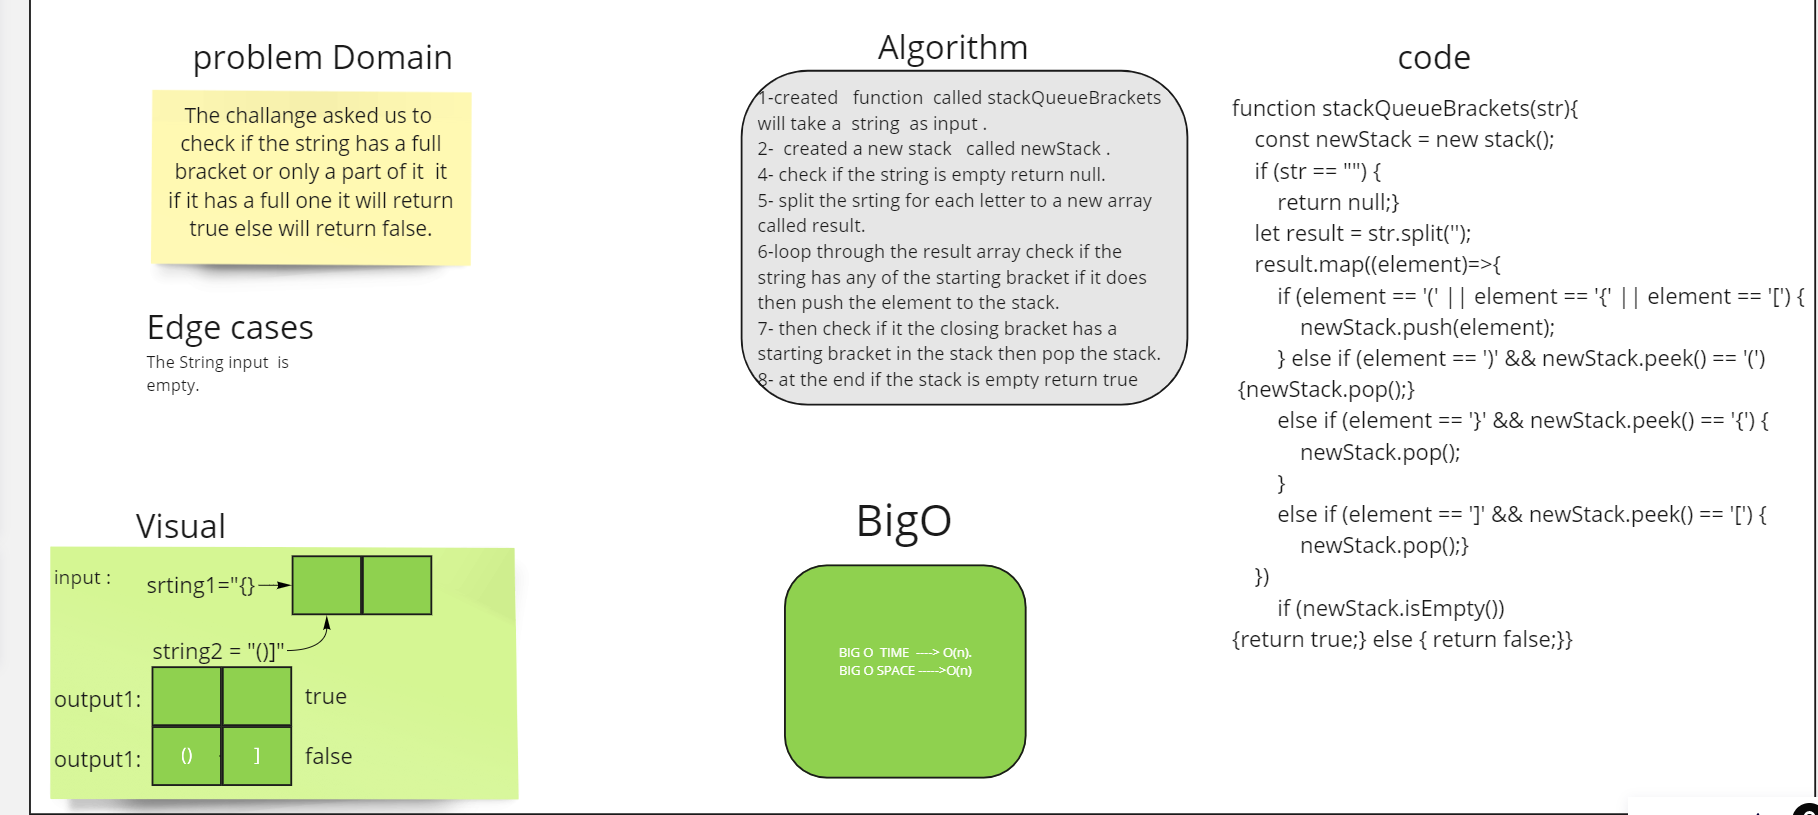
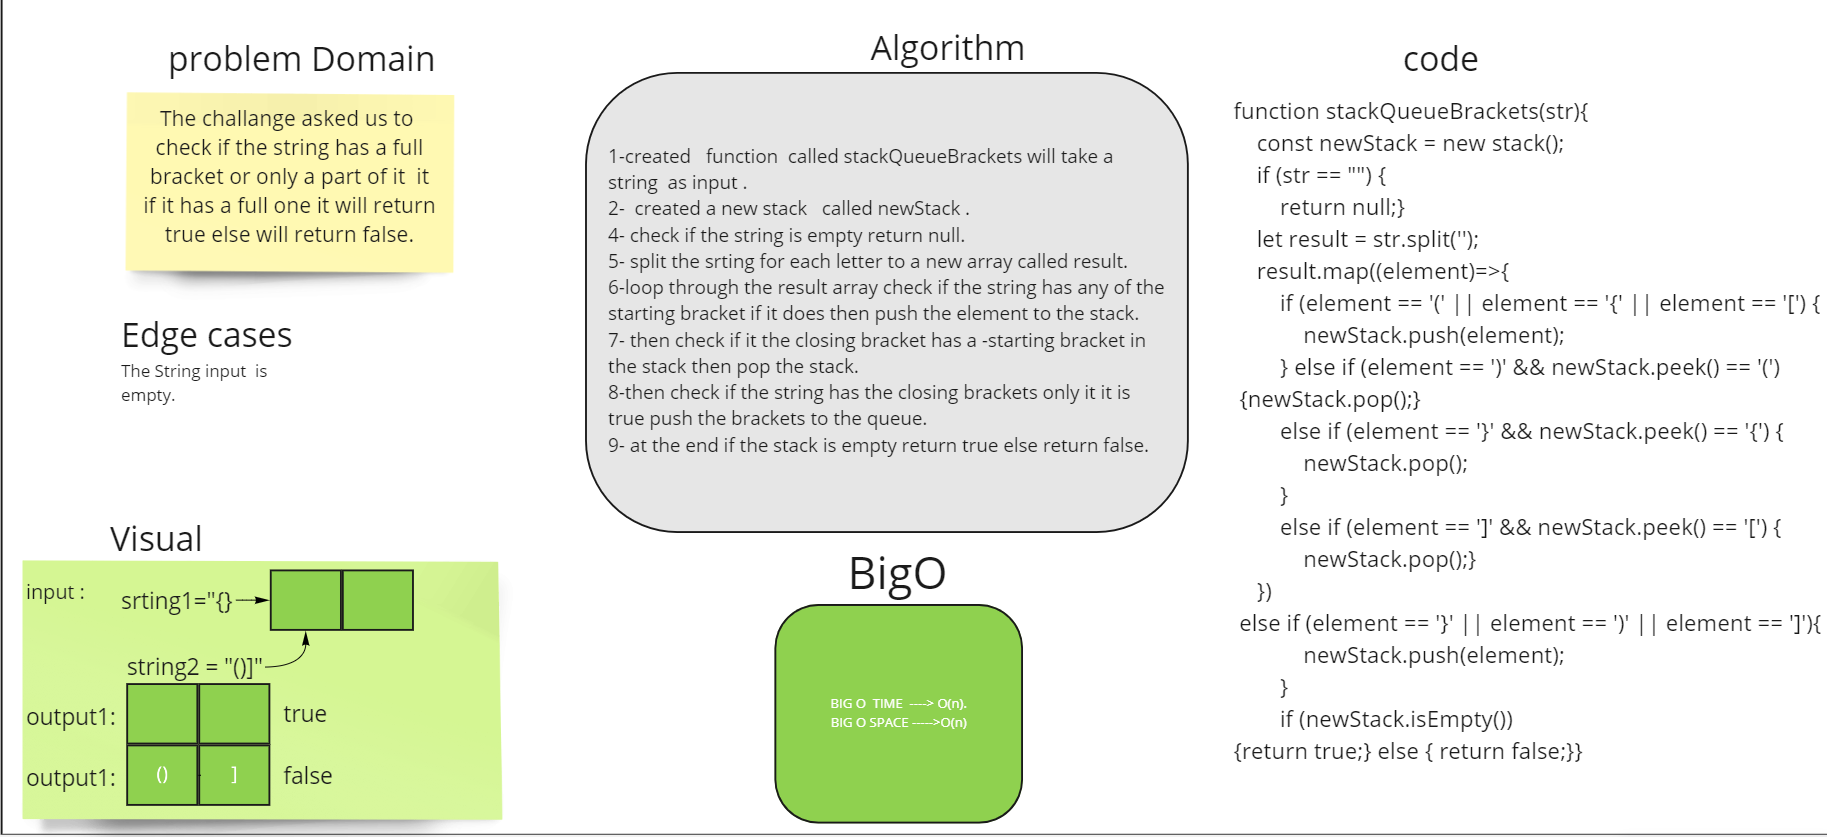
chal13EDited

diff --git a/javascript/stack-queue-brackets/__test__/stack-queue-brackets.test.js b/javascript/stack-queue-brackets/__test__/stack-queue-brackets.test.js
@@ -2,16 +2,24 @@ const stackQueueBracketsfun = require('../stack-queue-brackets')
 
 describe('testing',()=>{
     let str = "(fasnaf()kjf)"
-    it('testing create method',()=>{
+    it('testing a right string',()=>{
         expect(stackQueueBracketsfun(str)).toBeTruthy();
     })
-    it('testing create method',()=>{
+    it('testing if the sting is empty to return null',()=>{
         let str1 = ""
         expect(stackQueueBracketsfun(str1)).toBeNull();
     })
 
-    it('testing create method',()=>{
-        let str1 = "{"
+    it('testing wrong string',()=>{
+        let str1 = "}{][)("
+        expect(stackQueueBracketsfun(str1)).toBeFalsy();
+    })
+    it('testing closing brackets only',()=>{
+        let str1 = "}])"
+        expect(stackQueueBracketsfun(str1)).toBeFalsy();
+    })
+    it('testing openning brackets only ',()=>{
+        let str1 = "([{"
         expect(stackQueueBracketsfun(str1)).toBeFalsy();
     })
 })

diff --git a/javascript/stack-queue-brackets/stack-queue-brackets.js b/javascript/stack-queue-brackets/stack-queue-brackets.js
@@ -19,6 +19,8 @@ function stackQueueBrackets(str){
         }
         else if (element == ']' && newStack.peek() == '[') {
             newStack.pop();
+        } else if (element == '}' || element == ')' || element == ']'){
+            newStack.push(element);
         }
 
     })
